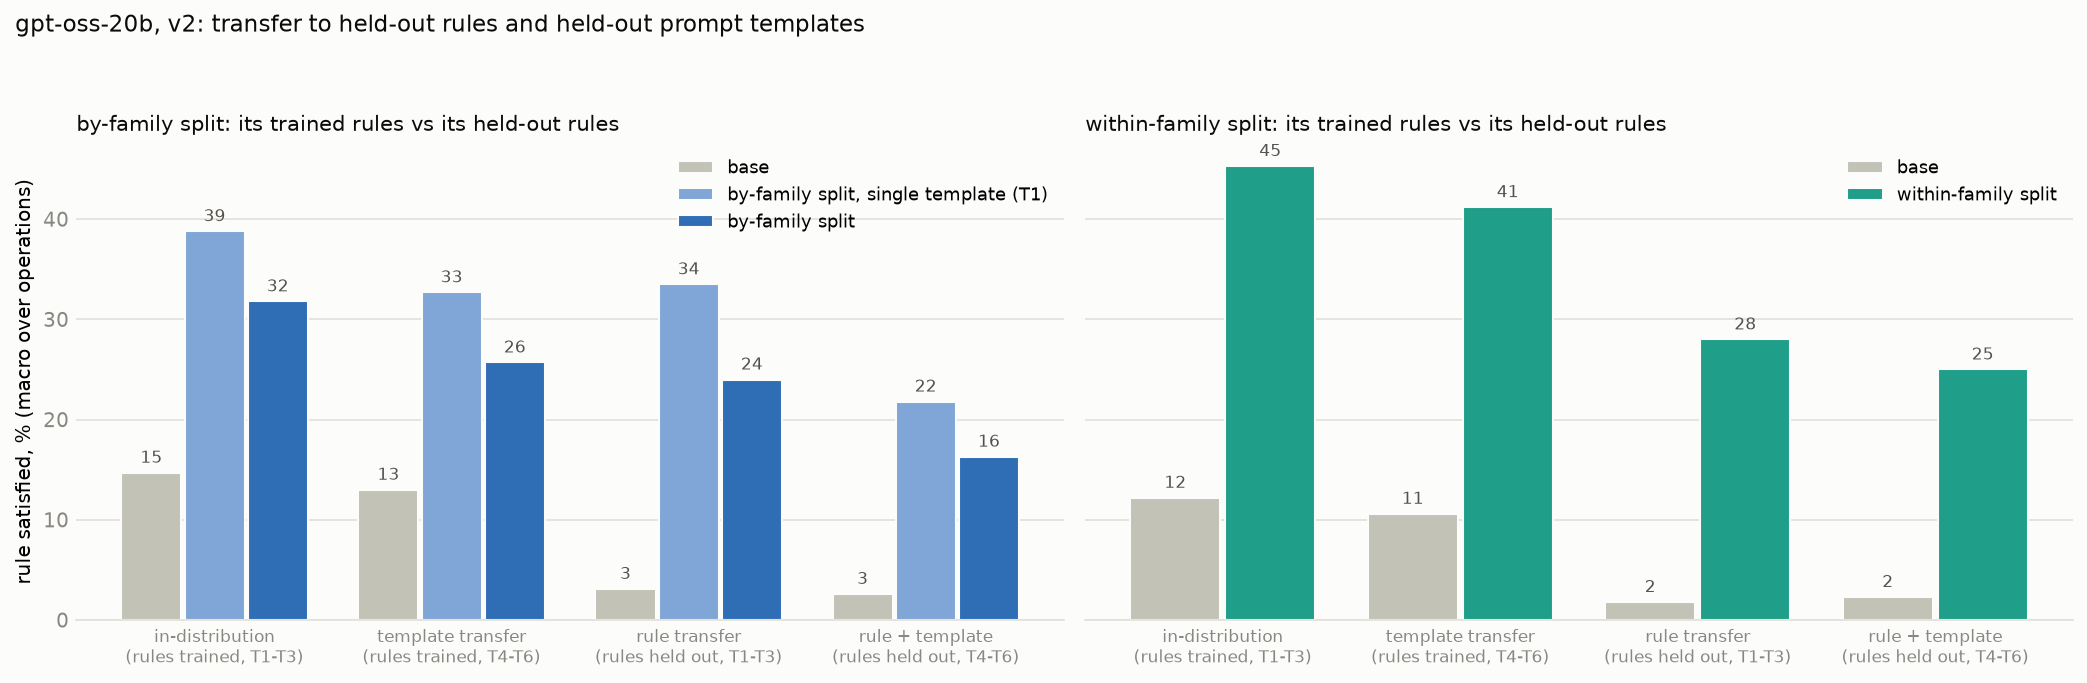
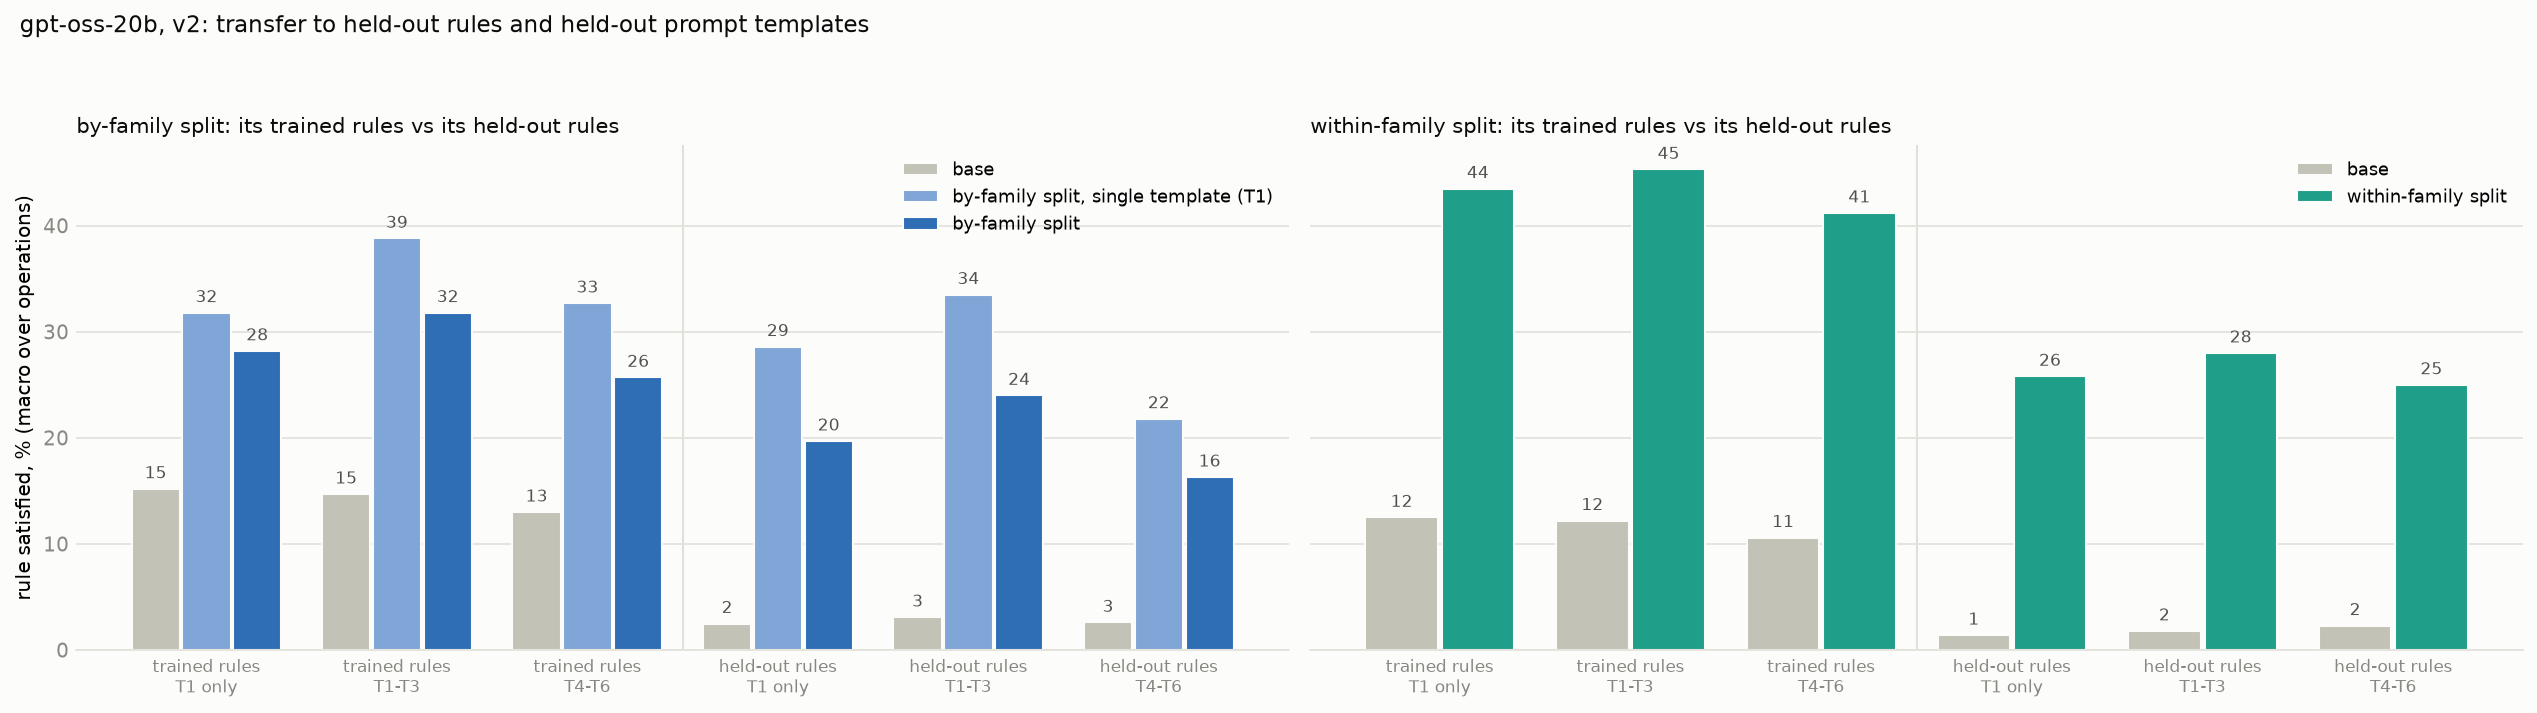
v2 gpt-oss: main figure and table also show template T1 on its own

Changed region(s): [[0.0, 0.1537, 0.9966, 0.9839], [0.0, 0.0, 0.4049, 0.0615], [0.0311, 0.1537, 0.3115, 0.2152]]

diff --git a/scripts/v2/report.py b/scripts/v2/report.py
@@ -44,8 +44,13 @@ def opmacro(m, cids, tids):
 def cells(split):
     tr = [c[2] for c in C if role(c, split) == "train"]; te = [c[2] for c in C if role(c, split) == "test"]
     def clean(cids, tids): return [c for c in cids if c not in LEAKED[split] and (r("base", c, tids) or 0) < 40]
-    return {"in-distribution": (tr, TRAIN_TEMPLATES), "template transfer": (tr, HELDOUT_TEMPLATES),
-            "rule transfer": (clean(te, TRAIN_TEMPLATES), TRAIN_TEMPLATES), "rule + template": (clean(te, HELDOUT_TEMPLATES), HELDOUT_TEMPLATES)}
+    return {"trained, T1": (tr, ["T1"]), "in-distribution": (tr, TRAIN_TEMPLATES), "template transfer": (tr, HELDOUT_TEMPLATES),
+            "held out, T1": (clean(te, ["T1"]), ["T1"]), "rule transfer": (clean(te, TRAIN_TEMPLATES), TRAIN_TEMPLATES),
+            "rule + template": (clean(te, HELDOUT_TEMPLATES), HELDOUT_TEMPLATES)}
+
+
+CELL_LABEL = {"trained, T1": "trained rules\nT1 only", "in-distribution": "trained rules\nT1-T3", "template transfer": "trained rules\nT4-T6",
+              "held out, T1": "held-out rules\nT1 only", "rule transfer": "held-out rules\nT1-T3", "rule + template": "held-out rules\nT4-T6"}
 
 
 if __name__ == "__main__":
@@ -62,14 +67,15 @@ if __name__ == "__main__":
     json.dump(out, open(RUN["root"] / "summary_cells.json", "w"), indent=1)
 
     # Fig 1: four cells per split
-    fig, axes = plt.subplots(1, 2, figsize=(14, 4.6), sharey=True)
+    fig, axes = plt.subplots(1, 2, figsize=(17, 4.8), sharey=True)
     for ax, (split, arms) in zip(axes, (("A", ["base", "A1", "A"]), ("B", ["base", "B"]))):
         ks = list(cells(split)); arms = [m for m in arms if m in MODELS]; w = 0.8 / len(arms)
         for j, m in enumerate(arms):
             ys = [out[f"{m} on {split}'s split"][k] for k in ks]; xs = [i + (j - (len(arms) - 1) / 2) * w for i in range(len(ks))]
             ax.bar(xs, ys, width=w * 0.95, color=COL[m], edgecolor=SURF, label=DISP[m])
             for x, y in zip(xs, ys): ax.text(x, (y if y == y else 0) + 1, f"{y:.0f}", ha="center", fontsize=8, color=INK2)
-        ax.set_xticks(range(len(ks))); ax.set_xticklabels([f"{k}\n({'rules trained' if i < 2 else 'rules held out'}, {'T1-T3' if i % 2 == 0 else 'T4-T6'})" for i, k in enumerate(ks)], fontsize=8)
+        ax.set_xticks(range(len(ks))); ax.set_xticklabels([CELL_LABEL[k] for k in ks], fontsize=8)
+        ax.axvline(2.5, color=GRID, lw=1)
         ax.set_title(f"{SPLIT[split]}: its trained rules vs its held-out rules", loc="left", fontsize=10, color=INK)
         ax.yaxis.grid(True, color=GRID); ax.set_axisbelow(True); ax.tick_params(length=0); ax.spines["left"].set_visible(False); ax.legend(frameon=False, fontsize=8.5)
     axes[0].set_ylabel("rule satisfied, % (macro over operations)")

diff --git a/V2_GPTOSS_FINDINGS.md b/V2_GPTOSS_FINDINGS.md
@@ -17,13 +17,16 @@ Scores are the percentage of prompts whose reasoning satisfies the rule. Each is
 operation's rules averaged first). Held-out scores exclude leaked rules (within-family split: no colons) and rules base already passes
 on 40 % or more of prompts in the same templates.
 
-| | trained rules, seen templates | trained rules, new templates | held-out rules, seen templates | held-out rules, new templates |
-|---|---:|---:|---:|---:|
-| base (the by-family split's split) | 15 | 13 | 3 | 3 |
-| **by-family split** | 32 | 26 | 24 | 16 |
-| **by-family single-template arm** (T1 only) | 39 | 33 | 34 | 22 |
-| base (the within-family split's split) | 12 | 11 | 2 | 2 |
-| **within-family split** | 45 | 41 | 28 | 25 |
+| | trained rules, T1 | trained rules, T1-T3 | trained rules, T4-T6 | held-out rules, T1 | held-out rules, T1-T3 | held-out rules, T4-T6 |
+|---|---:|---:|---:|---:|---:|---:|
+| base (by-family split's rules) | 15 | 15 | 13 | 2 | 3 | 3 |
+| **by-family split** | 28 | 32 | 26 | 20 | 24 | 16 |
+| **by-family split, single template (T1)** | 32 | 39 | 33 | 29 | 34 | 22 |
+| base (within-family split's rules) | 12 | 12 | 11 | 1 | 2 | 2 |
+| **within-family split** | 44 | 45 | 41 | 26 | 28 | 25 |
+
+T1 is shown on its own because it is the single-template arm's only training template; T2 and T3 are new to that
+arm. The by-family and within-family splits trained on all of T1-T3.
 
 1. **Rule transfer is large and clean.** Held-out rules rise from 2-3 % to 24-34 % in seen templates, with leakage and
    duplicate rules removed.
